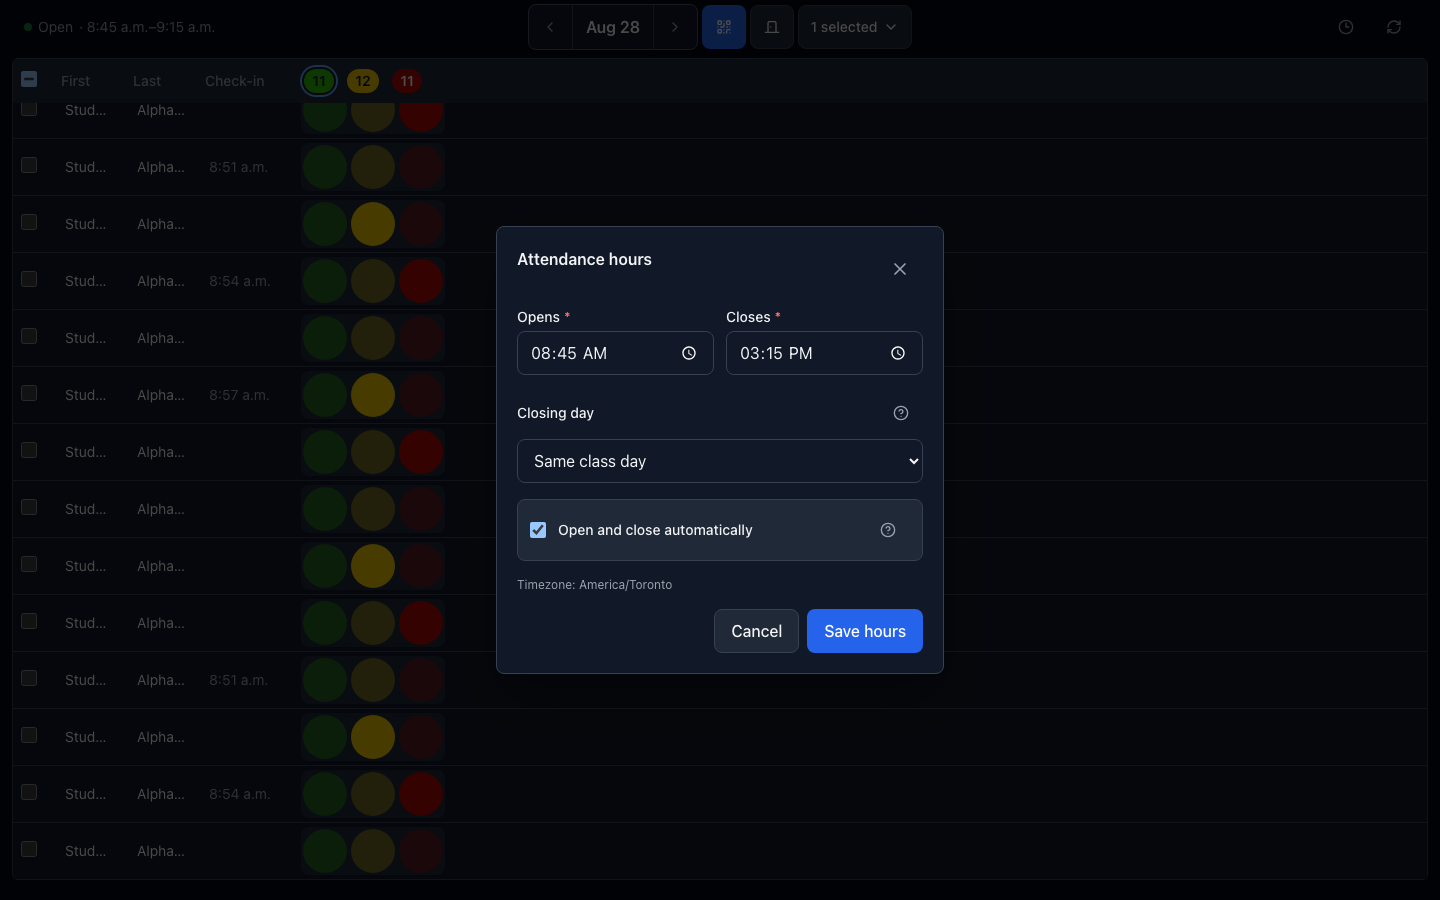
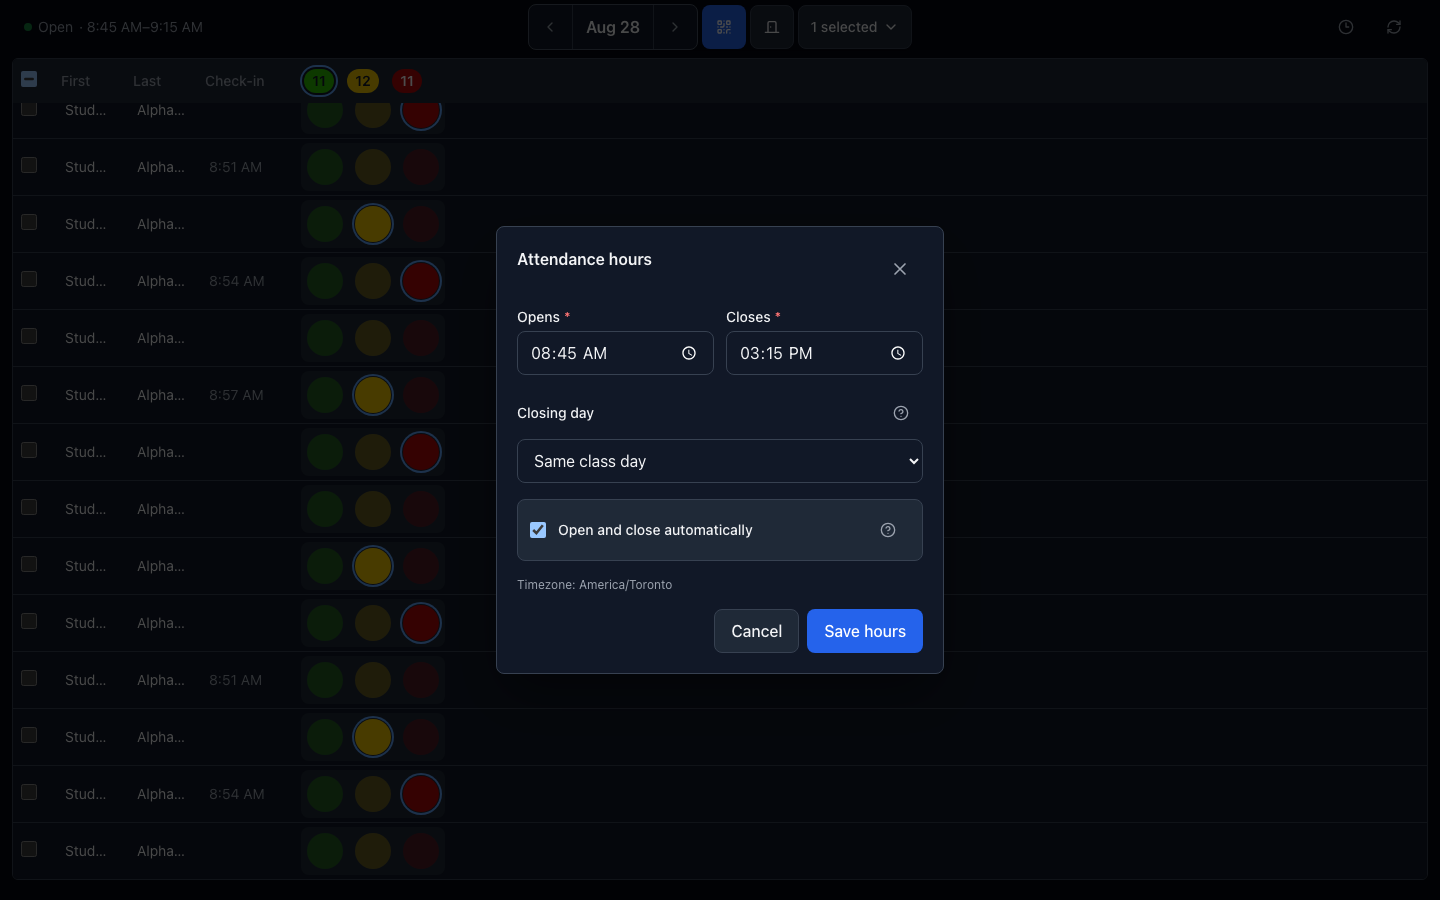
Clarify Attendance status selection

diff --git a/tests/components/TeacherLiveAttendanceTab.test.tsx b/tests/components/TeacherLiveAttendanceTab.test.tsx
@@ -136,7 +136,7 @@ describe('TeacherLiveAttendanceTab', () => {
     expect(screen.getByText('Lovelace')).toBeInTheDocument()
     expect(screen.getByText('Grace')).toBeInTheDocument()
     expect(screen.getByText('Hopper')).toBeInTheDocument()
-    expect(screen.getAllByText('8:50 a.m.').length).toBeGreaterThan(0)
+    expect(screen.getAllByText('8:50 AM').length).toBeGreaterThan(0)
     const contextBar = screen.getByTestId('attendance-context-bar')
     const primaryControl = screen.getByTestId('attendance-primary-control')
     const showQr = within(contextBar).getByRole('button', { name: 'Show QR' })
@@ -218,20 +218,21 @@ describe('TeacherLiveAttendanceTab', () => {
     expect(within(graceStatus).getByRole('button', { name: 'Late' })).toHaveAttribute('aria-pressed', 'false')
     expect(within(graceStatus).getByRole('button', { name: 'Absent' })).toHaveAttribute('aria-pressed', 'false')
     expect(within(graceStatus).getByRole('button', { name: 'Present' })).toHaveClass(
-      'bg-attendance-present',
-      'text-attendance-present-text',
+      'after:bg-attendance-present',
+      'after:opacity-100',
+      'after:ring-2',
     )
     expect(within(graceStatus).getByRole('button', { name: 'Late' })).toHaveClass(
-      'bg-attendance-late',
-      'text-attendance-late-text',
+      'after:bg-attendance-late',
+      'after:opacity-35',
     )
     expect(within(graceStatus).getByRole('button', { name: 'Absent' })).toHaveClass(
-      'bg-attendance-absent',
-      'text-attendance-absent-text',
+      'after:bg-attendance-absent',
+      'after:opacity-35',
     )
     for (const label of ['Present', 'Late', 'Absent']) {
       const statusButton = within(graceStatus).getByRole('button', { name: label })
-      expect(statusButton).toHaveClass('rounded-full')
+      expect(statusButton).toHaveClass('rounded-full', 'after:h-9', 'after:w-9', 'after:rounded-full')
       expect(statusButton.querySelector('svg')).not.toBeInTheDocument()
     }
     expect(screen.getByTestId('attendance-context-bar')).not.toHaveTextContent(/\d+ present/i)
@@ -555,7 +556,7 @@ describe('TeacherLiveAttendanceTab', () => {
     const undo = await screen.findByRole('button', {
       name: 'Undo manual attendance change for Grace Hopper',
     })
-    expect(screen.getAllByText('8:50 a.m.').length).toBeGreaterThan(0)
+    expect(screen.getAllByText('8:50 AM').length).toBeGreaterThan(0)
     fireEvent.click(undo)
 
     await waitFor(() => expect(screen.queryByRole('button', {

diff --git a/e2e/experience-matrix.spec.ts b/e2e/experience-matrix.spec.ts
@@ -250,6 +250,7 @@ test('keeps the Attendance roster compact with inline status controls', async ({
   const previousDayButton = primaryControl.getByRole('button', { name: 'Previous day' })
   const nextDayButton = primaryControl.getByRole('button', { name: 'Next day' })
   await expect(contextBar).toContainText('Open')
+  await expect(contextBar).toContainText('8:45 AM–9:15 AM')
   if (viewport === 'mobile') await expect(trailingActions).toBeHidden()
   else await expect(trailingActions).toBeVisible()
   await expect(page.getByRole('checkbox')).toHaveCount(46)
@@ -299,20 +300,30 @@ test('keeps the Attendance roster compact with inline status controls', async ({
   const firstStudentStatus = page.getByRole('group', {
     name: 'Attendance status for Student 01 Alpha01',
   })
-  for (const label of ['Present', 'Late', 'Absent']) {
+  for (const [label, selected] of [['Present', true], ['Late', false], ['Absent', false]] as const) {
     const statusButton = firstStudentStatus.getByRole('button', { name: label })
     await expect(statusButton.locator('svg')).toHaveCount(0)
     const geometry = await statusButton.evaluate((element) => {
       const styles = window.getComputedStyle(element)
+      const indicatorStyles = window.getComputedStyle(element, '::after')
       const bounds = element.getBoundingClientRect()
       return {
         width: bounds.width,
         height: bounds.height,
         radius: Number.parseFloat(styles.borderTopLeftRadius),
+        indicatorWidth: Number.parseFloat(indicatorStyles.width),
+        indicatorHeight: Number.parseFloat(indicatorStyles.height),
+        indicatorOpacity: Number.parseFloat(indicatorStyles.opacity),
+        indicatorShadow: indicatorStyles.boxShadow,
       }
     })
     expect(Math.abs(geometry.width - geometry.height)).toBeLessThan(1)
     expect(geometry.radius).toBeGreaterThanOrEqual(geometry.width / 2)
+    expect(geometry.indicatorWidth).toBe(36)
+    expect(geometry.indicatorHeight).toBe(36)
+    expect(geometry.indicatorWidth).toBeLessThan(geometry.width)
+    expect(geometry.indicatorOpacity).toBe(selected ? 1 : 0.35)
+    expect(geometry.indicatorShadow === 'none').toBe(!selected)
   }
   await expect(firstStudentStatus.getByRole('button', { name: 'Present' })).toHaveAttribute('aria-pressed', 'true')
   await firstStudentStatus.getByRole('button', { name: 'Late' }).click()

diff --git a/src/app/classrooms/[classroomId]/TeacherLiveAttendanceTab.tsx b/src/app/classrooms/[classroomId]/TeacherLiveAttendanceTab.tsx
@@ -91,9 +91,9 @@ const STATUS_CHIP_CLASSES: Record<StatusSort, string> = {
 const SORTABLE_STATUSES: StatusSort[] = ['present', 'late', 'absent']
 
 const STATUS_BUTTON_CLASSES: Record<StatusSort, string> = {
-  present: 'border-transparent bg-attendance-present text-attendance-present-text hover:bg-attendance-present',
-  late: 'border-transparent bg-attendance-late text-attendance-late-text hover:bg-attendance-late',
-  absent: 'border-transparent bg-attendance-absent text-attendance-absent-text hover:bg-attendance-absent',
+  present: 'bg-transparent hover:bg-transparent after:bg-attendance-present',
+  late: 'bg-transparent hover:bg-transparent after:bg-attendance-late',
+  absent: 'bg-transparent hover:bg-transparent after:bg-attendance-absent',
 }
 
 function AttendanceStatusSortChip({
@@ -156,9 +156,12 @@ function AttendanceStatusControl({
         value: optionStatus,
         label: STATUS_LABELS[optionStatus],
         disabled,
-        className: cn('rounded-full', STATUS_BUTTON_CLASSES[optionStatus]),
-        activeClassName: 'opacity-100 shadow-sm',
-        inactiveClassName: 'opacity-40 hover:opacity-70',
+        className: cn(
+          "relative rounded-full after:pointer-events-none after:absolute after:h-9 after:w-9 after:rounded-full after:content-['']",
+          STATUS_BUTTON_CLASSES[optionStatus],
+        ),
+        activeClassName: 'after:opacity-100 after:ring-2 after:ring-primary after:ring-offset-1 after:ring-offset-surface-2 after:shadow-sm',
+        inactiveClassName: 'after:opacity-35 hover:after:opacity-65',
       }))}
       onChange={(nextStatus) => {
         if (nextStatus !== 'unmarked') onChange(nextStatus)
@@ -207,10 +210,11 @@ function formatFullDay(date: string) {
 
 function formatTime(instant: string | null) {
   if (!instant) return null
-  return new Intl.DateTimeFormat('en-CA', {
+  return new Intl.DateTimeFormat('en-US', {
     timeZone: 'America/Toronto',
     hour: 'numeric',
     minute: '2-digit',
+    hour12: true,
   }).format(new Date(instant))
 }
 

diff --git a/design-qa.md b/design-qa.md
@@ -2,7 +2,7 @@
 
 ## Comparison Target
 
-- Source visual truth: `docs/guidance/ui/evidence/attendance-actions-2026-08-27/approved-design-reference.png` for the selected hierarchy, plus the user's explicit interaction revisions through 2026-08-28 (checkbox selection and persistent selected-student menu restored; inline three-state corrections retained; QR Undo retained; Check-in time retained; visible `Status` header label removed; row attendance icons removed and the three status targets made circular)
+- Source visual truth: `docs/guidance/ui/evidence/attendance-actions-2026-08-27/approved-design-reference.png` for the selected hierarchy, plus the user's explicit interaction revisions through 2026-08-28 (checkbox selection and persistent selected-student menu restored; inline three-state corrections retained; QR Undo retained; Check-in time retained; visible `Status` header label removed; row attendance icons removed; visible status discs reduced to 36 px inside retained 44 px targets; selected status given a clear ring; visible times use uppercase AM/PM)
 - Primary implementation screenshots:
   - `docs/guidance/ui/evidence/attendance-actions-2026-08-27/teacher-desktop-light-default.png`
   - `docs/guidance/ui/evidence/attendance-actions-2026-08-27/teacher-desktop-light-manual-with-undo.png`
@@ -22,6 +22,7 @@
 - Focused selected comparison: `docs/guidance/ui/evidence/attendance-actions-2026-08-27/qa-focus-selected-menu.png`; the 1486 x 529 source selected crop and 1440 x 529 implementation selected-menu crop are placed side by side without density scaling.
 - Revised interaction comparison: `docs/guidance/ui/evidence/attendance-actions-2026-08-27/qa-focus-revision.png`; the full source board was scaled to 900 px high and placed beside the unscaled 1440 x 900 implementation selected-menu state, with the user's explicit Attendance revisions treated as authoritative where they supersede the generated image.
 - Row-control before/after comparisons: `docs/guidance/ui/evidence/attendance-actions-2026-08-27/qa-circle-controls-desktop.png` at 2880 x 900 and `docs/guidance/ui/evidence/attendance-actions-2026-08-27/qa-circle-controls-mobile.png` at 780 x 844; each places the preceding icon-bearing implementation beside the revised circular implementation at matching viewport, theme, state, and density.
+- Selected-state refinement comparisons: `docs/guidance/ui/evidence/attendance-actions-2026-08-27/qa-smaller-selected-controls-desktop.png` at 2880 x 900 and `docs/guidance/ui/evidence/attendance-actions-2026-08-27/qa-smaller-selected-controls-mobile.png` at 780 x 844; each places the preceding 44 px filled-disc treatment beside the revised 36 px visible disc and ring at matching viewport, theme, state, and density.
 - The source is an exploration board rather than a browser capture, so comparisons judge hierarchy and component treatment rather than false pixel precision.
 
 ## Findings
@@ -30,14 +31,21 @@ No actionable P0, P1, or P2 mismatch remains.
 
 - Fonts and typography: the implementation uses Pika's production font stack, weights, and compact table type scale. The generated source typography is illustrative; hierarchy, legibility, and truncation behavior are consistent with the shared work surface.
 - Spacing and layout rhythm: the centered cluster, quiet edges, tight roster, and table border/radius match the selected hierarchy. The date arrows directly touch the date segment. At 390 px, nonessential session context is visually condensed and session commands/utilities collapse to one compact icon menu without overlap.
-- Colors and visual tokens: semantic Pika surface, text, focus, attendance-status, light, and dark tokens render consistently. The active state is full-strength while the other two status choices remain visible at lower emphasis. The fixed Present/Late/Absent order, hover/focus tooltips, and accessible names provide meaning beyond color after the user-requested icon removal.
+- Colors and visual tokens: semantic Pika surface, text, focus, attendance-status, light, and dark tokens render consistently. The active state is full-strength with a semantic primary ring and subtle shadow while the other two status choices remain visible at 35% opacity. The fixed Present/Late/Absent order, hover/focus tooltips, and accessible names provide meaning beyond color after the user-requested icon removal.
 - Image quality and asset fidelity: the work surface requires no photographic or generated product asset. The row attendance controls intentionally contain no icons; remaining utility and menu icons use Pika's existing Lucide family. No handcrafted SVG, CSS art, emoji, or placeholder imagery was introduced.
-- Copy and content: the implementation preserves Attendance-specific terms (`Show QR`, `Open attendance`, `Close attendance`, `Present`, `Late`, `Absent`, `Restore QR check-in`, and `Attendance hours`) and does not import Test terminology. `Check-in` contains the Toronto-local QR check-in time and is visually empty when the student has no QR check-in.
-- Icons and affordances: every remaining icon action has an explicit accessible name and tooltip. The selectable date contains no dropdown chevron. The persistent selected-student menu uses Attendance terms and remains disabled until selection. Row status controls are three equal circular, icon-free targets in the fixed green Present, yellow Late, red Absent order; their tooltips and accessible names preserve explicit meaning. The trailing header keeps only the matching sortable counts without a visible `Status` label.
+- Copy and content: the implementation preserves Attendance-specific terms (`Show QR`, `Open attendance`, `Close attendance`, `Present`, `Late`, `Absent`, `Restore QR check-in`, and `Attendance hours`) and does not import Test terminology. `Check-in` contains the Toronto-local QR check-in time and is visually empty when the student has no QR check-in. Session-window, Check-in, and QR-expiry times consistently use uppercase `AM`/`PM` labels.
+- Icons and affordances: every remaining icon action has an explicit accessible name and tooltip. The selectable date contains no dropdown chevron. The persistent selected-student menu uses Attendance terms and remains disabled until selection. Row status controls are three equal icon-free targets in the fixed green Present, yellow Late, red Absent order; each retains a 44 x 44 hit target around a 36 x 36 visible circle, with a clear ring around the selected state. Their tooltips and accessible names preserve explicit meaning. The trailing header keeps only the matching sortable counts without a visible `Status` label.
 - Responsiveness and accessibility: desktop/mobile light/dark captures have no document overflow. All direct controls meet the 44 px `min-h-control` target and use the canonical focus-visible treatment. The three-state control supplies a named group, named pressed-state buttons, roving focus, and Arrow/Home/End behavior. Mobile session and utility menus retain all actions.
-- Interaction/runtime check: checkbox selection, select-all semantics, the selected-student menu, direct row status changes, QR Undo visibility, status sorting, internal scrolling/sticky header, mobile session menu, utilities, and Attendance hours were exercised in Chromium. The matrix additionally asserts zero SVG descendants, equal width/height, and a radius of at least half the width for every row status target. Browser console and page errors were collected and remained empty in all four projects.
+- Interaction/runtime check: checkbox selection, select-all semantics, the selected-student menu, direct row status changes, QR Undo visibility, status sorting, internal scrolling/sticky header, mobile session menu, utilities, and Attendance hours were exercised in Chromium. The matrix additionally asserts zero SVG descendants, equal 44 x 44 hit geometry, 36 x 36 visible discs, 35% inactive opacity, a selected-state ring/shadow, and uppercase AM/PM session labels. Browser console and page errors were collected and remained empty in all four projects.
 
 ## Comparison History
+
+### Pass 7 — smaller discs and stronger selected state, passed
+
+- Reduced only the visible attendance disc from 44 x 44 to 36 x 36 while retaining the full 44 x 44 direct-action hit target, focus behavior, fixed Present/Late/Absent order, and named pressed states.
+- Added a semantic primary ring and subtle shadow to the selected disc; inactive discs remain identifiable but quiet at 35% opacity. The matching desktop light and mobile dark before/after boards make the improved selected-state scanability clear without changing roster density.
+- Standardized all visible Attendance times to Toronto-local 12-hour display with uppercase `AM`/`PM`, including the session window, QR Check-in times, and QR expiry.
+- The four-project Chromium matrix passed with no browser or page errors and explicit pseudo-element geometry, opacity, ring, and time-label assertions. No actionable P0/P1/P2 issue remains.
 
 ### Pass 6 — icon-free circular row controls, passed
 

diff --git a/docs/guidance/ui/evidence/attendance-actions-2026-08-27/record.md b/docs/guidance/ui/evidence/attendance-actions-2026-08-27/record.md
@@ -33,6 +33,8 @@
 | `teacher-mobile-dark-hours-dialog.png` | teacher | 390 x 844 | dark | Attendance hours dialog | teacher Attendance |
 | `qa-circle-controls-desktop.png` | teacher | 2880 x 900 comparison | light | preceding icon-bearing row controls beside revised icon-free circular controls | teacher Attendance |
 | `qa-circle-controls-mobile.png` | teacher | 780 x 844 comparison | dark | preceding icon-bearing row controls beside revised icon-free circular controls | teacher Attendance |
+| `qa-smaller-selected-controls-desktop.png` | teacher | 2880 x 900 comparison | light | preceding full-size filled discs beside revised 36 px visible discs with selected rings | teacher Attendance |
+| `qa-smaller-selected-controls-mobile.png` | teacher | 780 x 844 comparison | dark | preceding full-size filled discs beside revised 36 px visible discs with selected rings and uppercase AM/PM | teacher Attendance |
 
 The `*-selected.png` captures mirror the current manually corrected selected-row
 state. The `*-selected-menu.png` captures are the authoritative selected-action
@@ -42,7 +44,7 @@ the superseded whole-roster action direction and are no longer conformance evide
 ## Assessment
 
 - Design claim being checked: the date and session context stay quiet at the edges, while the joined date navigator, session actions, and persistent selected-student menu form the dominant centered cluster above an internally scrolling roster with checkbox selection and inline row corrections.
-- Confirmed invariants: previous/date/next controls are contiguous; the selectable date has no dropdown chevron; each student has a checkbox and the header has a select-all checkbox; the selected-student menu stays visible but disabled with no selection and exposes the selected count when enabled; whole-roster status buttons are absent; per-student controls expose three named pressed states as equal icon-free circles in fixed Present/Late/Absent order; the trailing header shows sortable Present/Late/Absent counts without a visible `Status` label; QR-origin corrections expose Undo; Check-in shows the QR time or remains visually empty; mobile session actions collapse without losing QR/open/close/hours/refresh access; utilities remain reachable; the roster scrolls internally with sticky sortable/resizable headers; there is no page overflow or action overlap.
+- Confirmed invariants: previous/date/next controls are contiguous; the selectable date has no dropdown chevron; each student has a checkbox and the header has a select-all checkbox; the selected-student menu stays visible but disabled with no selection and exposes the selected count when enabled; whole-roster status buttons are absent; per-student controls expose three named pressed states in fixed Present/Late/Absent order as 36 px icon-free visible circles inside retained 44 px hit targets; the selected status has a semantic ring while inactive states remain visible at lower emphasis; the trailing header shows sortable Present/Late/Absent counts without a visible `Status` label; QR-origin corrections expose Undo; Check-in shows the QR time or remains visually empty; all visible Attendance times use uppercase AM/PM; mobile session actions collapse without losing QR/open/close/hours/refresh access; utilities remain reachable; the roster scrolls internally with sticky sortable/resizable headers; there is no page overflow or action overlap.
 - Inconsistencies or migration debt: none identified for this scope.
 - Intentional differences: the implementation retains Attendance terminology, existing QR/session command rules, Pika typography/tokens, real command-confirmation polling, and existing permission gates. It projects the original QR check-in time/status from Pika's signed integration inbox so a later staff correction does not erase the provenance needed by Undo. Mobile condenses session context and utilities while preserving the centered date/session/selection hierarchy at 390 px.
 - Limitations or dimensions not covered: no separate tablet viewport; student view is not applicable because this is a teacher-only work surface; backend integration behavior remains covered by existing component/API tests rather than the visual fixture.
@@ -52,7 +54,7 @@ the superseded whole-roster action direction and are no longer conformance evide
 
 - Checklist reviewed: yes
 - Keyboard behavior covered: yes; the joined date navigator, menu, checkboxes, sortable counts, and three-state row controls have reachable targets; menus support Arrow/Home/End/Escape with focus restoration, and segmented controls support Arrow/Home/End movement with roving focus
-- Semantic state covered by tests: yes; checkbox state, selected-row state, menu disabled/enabled state, selected count, pressed states, Undo labels, tooltips, accessible group names, absence of row-button icons, and circular geometry are asserted
+- Semantic state covered by tests: yes; checkbox state, selected-row state, menu disabled/enabled state, selected count, pressed states, Undo labels, tooltips, accessible group names, absence of row-button icons, 44 px hit geometry, 36 px disc geometry, selected ring/shadow, inactive opacity, and uppercase AM/PM are asserted
 - Remaining manual follow-up: none
 
 ## Guidance Decision

diff --git a/.ai/SESSION-LOG.md b/.ai/SESSION-LOG.md
@@ -11,31 +11,6 @@ Rolling recent session log for AI/human handoffs. Keep this file small; full his
 - The trim step appends removed entries to `.ai/JOURNAL-ARCHIVE.md`, so trimming never loses history.
 - Use `.ai/JOURNAL-ARCHIVE.md` only for historical investigation.
 
-## 2026-08-26 — Canonicalize Test-question identity from draft creation
-
-**Risk profile:** runtime-platform — application identity synchronization,
-transactional migration/backfill, immutable-Version instantiation, and database
-contract changes; no hosted migration, deployment, or merge occurred.
-
-- Defined `TestDraftQuestion.id` as the portable Artifact ID assigned when the
-  question is created; `test_questions.id` remains an internal row identity.
-  New persisted questions now store the draft UUID in `artifact_id`, and draft
-  reconstruction prefers source/artifact identity over row identity.
-- Made activation preflight and synchronize by artifact/source identity without
-  positional matching or partial updates on identity ambiguity. Blueprint
-  capture and archived reuse now validate source identity read-only; draft-only
-  IDs remain portable without creating or rewriting source rows.
-- Migration 134 transactionally backfills legacy row-ID draft JSON, fails closed
-  on ambiguous matches, and rematerializes newly instantiated Version questions
-  with explicit artifact/source IDs rather than inferring them by position.
-- Rebased the worktree onto PR #1066 head `cc7c14d7` while retaining the
-  separately completed durable failure-ledger remediation. The authorized local
-  database was reset without seed to replay the final migration; hosted state
-  was untouched.
-- The canonical identity and broader Versioned Blueprint database contracts
-  pass. The full Vitest suite passes (5,106/5,106), as do lint, the production
-  build, generated Supabase type checks, diff checks, and the Pika audit.
-
 ## 2026-08-26 — Make Blueprint question identity capture draft-safe
 
 **Risk profile:** runtime-platform — proposed migration and rollback-only test
@@ -1360,3 +1335,30 @@ unchanged.
 Playwright matrix (4/4) with no browser/page errors, TypeScript, lint, Pika
 audit, diff checks, and combined source/rendered Product Design comparison pass.
 Student UI is n/a because this remains a teacher-only surface.
+
+## 2026-08-28 — Strengthen Attendance selected-state clarity
+
+**Risk profile:** low visual/copy refinement — only the visible size and selected
+emphasis of existing teacher row status controls plus Attendance time formatting
+changed; hit targets, status commands, permissions, selection, QR Undo,
+API/schema behavior, and student UI are unchanged.
+
+- Reduced each visible Present/Late/Absent disc from 44 x 44 to 36 x 36 while
+  retaining its 44 x 44 interactive target and existing keyboard/focus behavior.
+- Added a semantic primary ring and subtle shadow to the selected status; inactive
+  states remain identifiable at lower emphasis in light and dark themes.
+- Standardized session-window, Check-in, and QR-expiry times to uppercase AM/PM.
+- Added component and browser assertions for disc geometry, selected/inactive
+  styling, and time labels, then refreshed desktop/mobile light/dark evidence,
+  gallery images, and matching before/after comparison boards.
+- No durable guidance changed because the visual treatment and time copy are
+  Attendance-specific.
+- Composite-widget accessibility checklist reviewed: yes; keyboard behavior
+  covered: yes; semantic pressed state, hit geometry, visible-disc geometry,
+  selected ring, inactive opacity, and time labels covered by tests: yes;
+  remaining manual follow-up: none.
+
+**Verification:** focused component/UI tests and responsive Attendance Playwright
+matrix (4/4) pass; TypeScript, lint, Pika audit, diff checks, CI, and bounded
+independent review are pending before handoff. Student UI is n/a because this
+remains a teacher-only surface.
